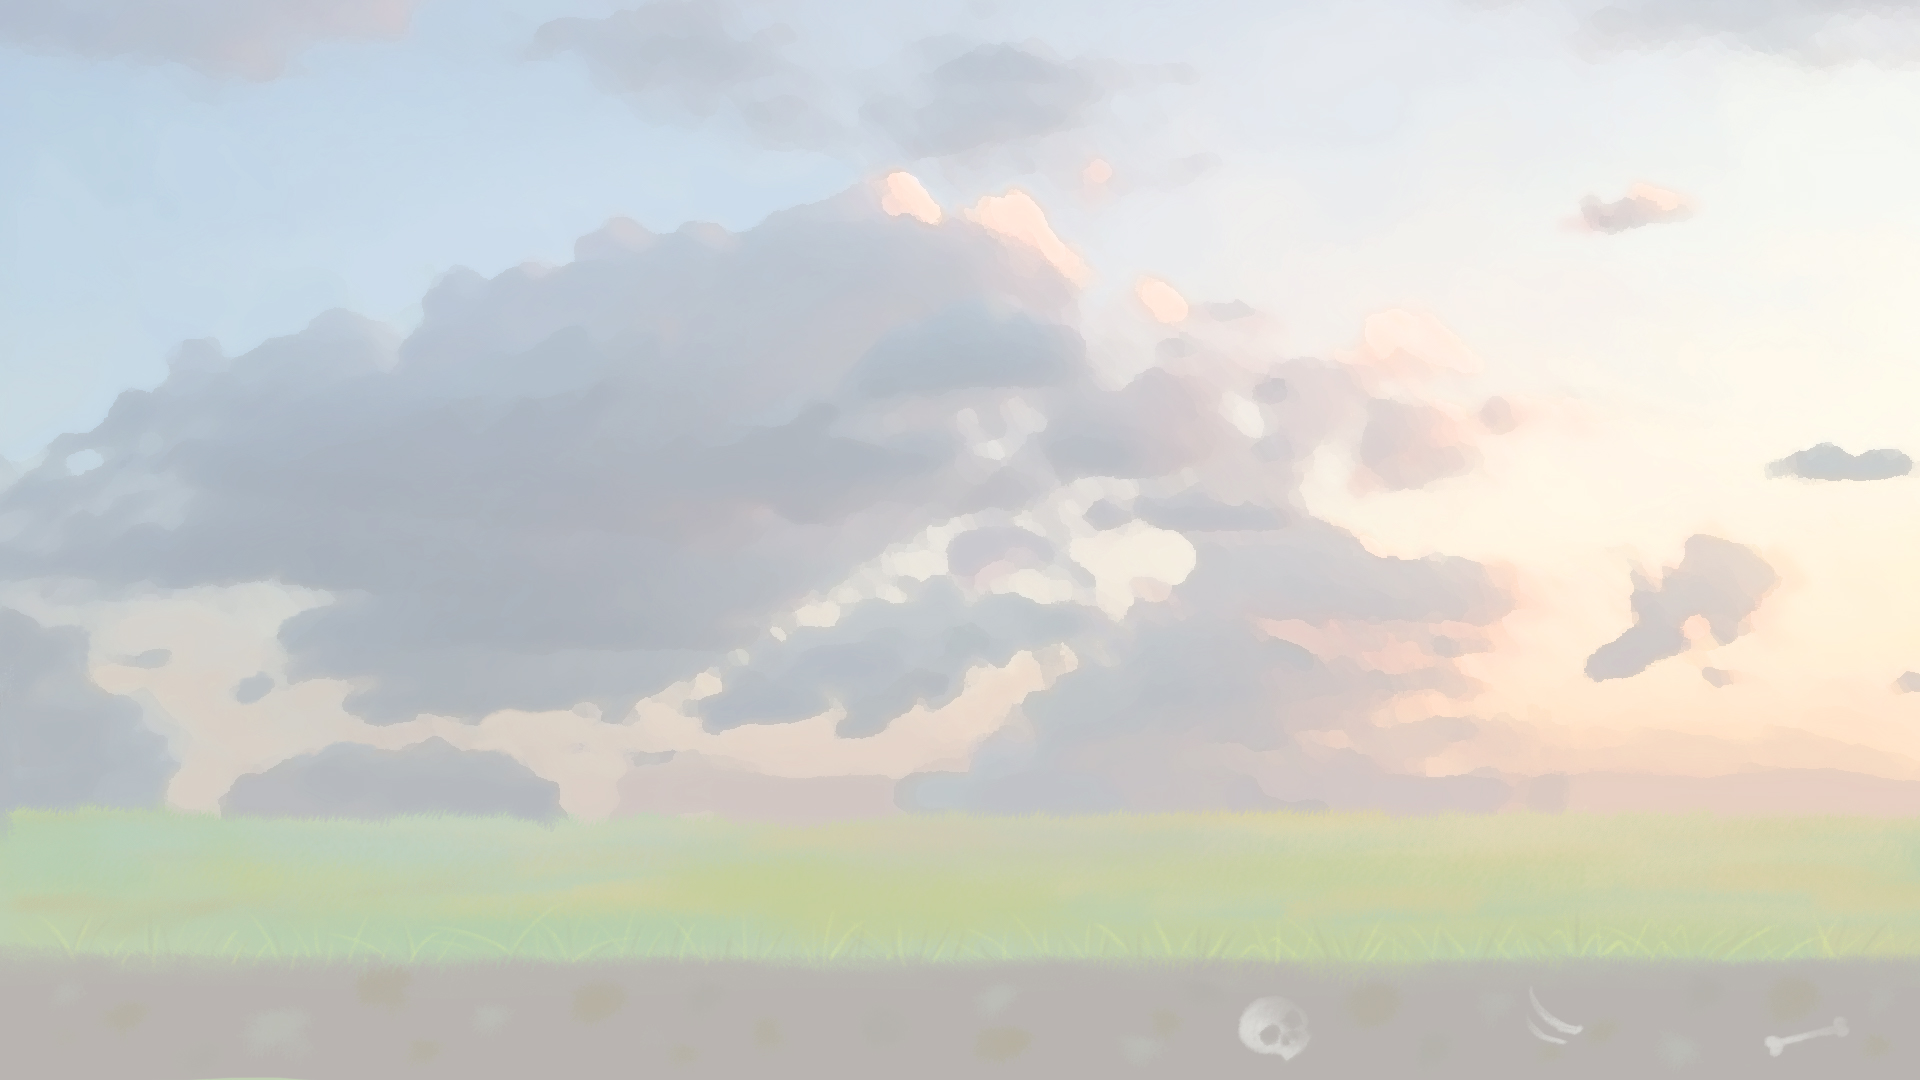
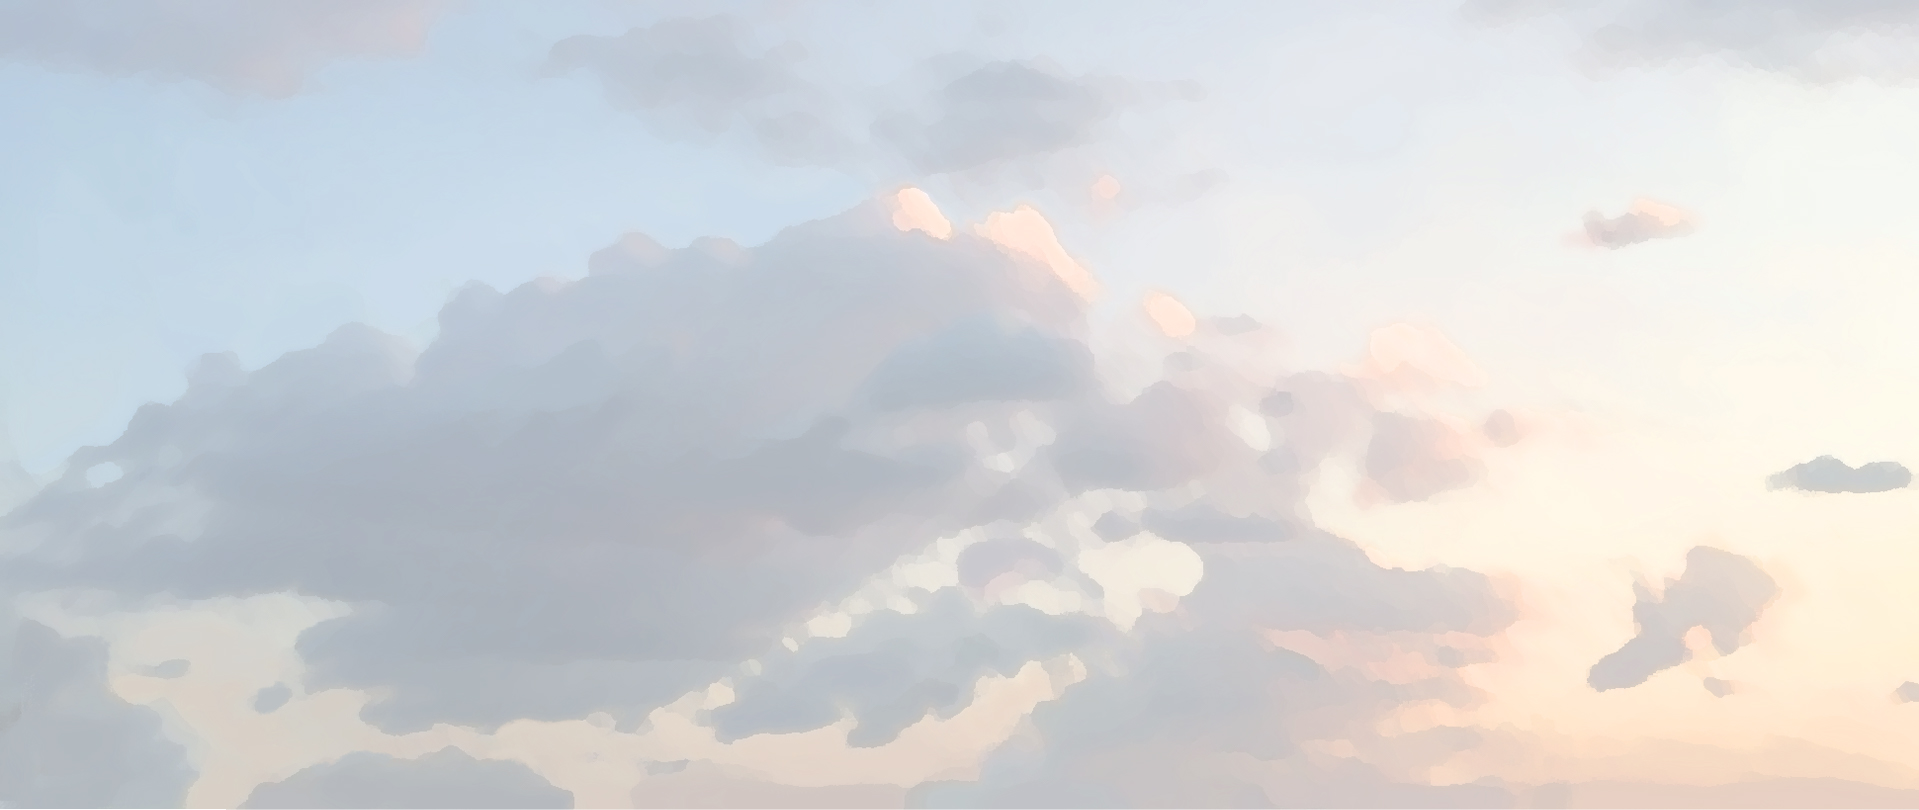
wip: mvp (add zoom restrictions, add sky, camera bounds, replace smoke texture)

diff --git a/src/lib/phaser.ts b/src/lib/phaser.ts
@@ -2,22 +2,127 @@
 // тут я модифицирую некоторые методы фазера (стараясь попутно всё не сломать),
 // иначе пиздец как больно делать элементарные вещи 
 
+import CONFIG from '../config';
 var Phaser = window['Phaser'];
 var Constraint = Phaser.Physics.Matter.Matter.Constraint;
 
 Phaser.Physics.Matter.Factory.prototype.constraint = function(bodyA, bodyB, length, stiffness, options) {
-    if (stiffness === undefined) { stiffness = 1; }
-    if (options === undefined) { options = {}; }
-    if (bodyA) { options.bodyA = (bodyA.type === 'body') ? bodyA : bodyA.body; }
-    if (bodyB) { options.bodyB = (bodyB.type === 'body') ? bodyB : bodyB.body; }
-    if (length) { options.length = length; }
-    if (stiffness) { options.stiffness = stiffness; }
+  if (stiffness === undefined) { stiffness = 1; }
+  if (options === undefined) { options = {}; }
+  if (bodyA) { options.bodyA = (bodyA.type === 'body') ? bodyA : bodyA.body; }
+  if (bodyB) { options.bodyB = (bodyB.type === 'body') ? bodyB : bodyB.body; }
+  if (length) { options.length = length; }
+  if (stiffness) { options.stiffness = stiffness; }
 
-    var constraint = Constraint.create(options);
+  var constraint = Constraint.create(options);
 
-    this.world.add(constraint);
+  this.world.add(constraint);
 
-    return constraint;
+  return constraint;
+};
+
+Phaser.Cameras.Controls.SmoothedKeyControl.prototype.update = function(delta) {
+  if (!this.active) {
+    return;
+  }
+
+  if (delta === undefined) { delta = 1; }
+
+  var cam = this.camera;
+
+  //  Apply Deceleration
+  if (this._speedX > 0) {
+    this._speedX -= this.dragX * delta;
+
+    if (this._speedX < 0) {
+      this._speedX = 0;
+    }
+  }
+  else if (this._speedX < 0) {
+    this._speedX += this.dragX * delta;
+
+    if (this._speedX > 0) {
+      this._speedX = 0;
+    }
+  }
+
+  if (this._speedY > 0) {
+    this._speedY -= this.dragY * delta;
+
+    if (this._speedY < 0) {
+      this._speedY = 0;
+    }
+  }
+  else if (this._speedY < 0) {
+    this._speedY += this.dragY * delta;
+
+    if (this._speedY > 0) {
+      this._speedY = 0;
+    }
+  }
+
+  //  Check for keys
+  if (this.up && this.up.isDown) {
+    this._speedY += this.accelY;
+
+    if (this._speedY > this.maxSpeedY) {
+      this._speedY = this.maxSpeedY;
+    }
+  }
+  else if (this.down && this.down.isDown) {
+    this._speedY -= this.accelY;
+
+    if (this._speedY < -this.maxSpeedY) {
+      this._speedY = -this.maxSpeedY;
+    }
+  }
+
+  if (this.left && this.left.isDown) {
+    this._speedX += this.accelX;
+
+    if (this._speedX > this.maxSpeedX) {
+      this._speedX = this.maxSpeedX;
+    }
+  }
+  else if (this.right && this.right.isDown) {
+    this._speedX -= this.accelX;
+
+    if (this._speedX < -this.maxSpeedX) {
+      this._speedX = -this.maxSpeedX;
+    }
+  }
+
+  //  Camera zoom
+  if (this.zoomIn && this.zoomIn.isDown) {
+    this._zoom = -this.zoomSpeed;
+  }
+  else if (this.zoomOut && this.zoomOut.isDown) {
+    this._zoom = this.zoomSpeed;
+  }
+  else {
+    this._zoom = 0;
+  }
+
+  //  Apply to Camera
+  if (this._speedX !== 0) {
+    cam.scrollX -= ((this._speedX * delta) | 0);
+  }
+
+  if (this._speedY !== 0) {
+    cam.scrollY -= ((this._speedY * delta) | 0);
+  }
+
+  if (this._zoom !== 0) {
+    cam.zoom += this._zoom;
+
+    if (cam.zoom < CONFIG.MIN_ZOOM) {
+      cam.zoom = CONFIG.MIN_ZOOM;
+    }
+
+    if (cam.zoom > CONFIG.MAX_ZOOM) {
+      cam.zoom = CONFIG.MAX_ZOOM;
+    }
+  }
 };
 
 export default Phaser;

diff --git a/src/level/level-1.ts b/src/level/level-1.ts
@@ -43,7 +43,7 @@ export default class Level1 extends (<any>Phaser.Scene) {
 
     this.addEnvironment();
 
-    this.slingshot = new Slingshot(this, 200, 400);
+    this.slingshot = new Slingshot(this, 900, 200);
 
     generateEntities(Level1Data, this);
 
@@ -51,15 +51,24 @@ export default class Level1 extends (<any>Phaser.Scene) {
   }
 
   addEnvironment() {
+    let w = this.game.config.width;
+    let h = this.game.config.height;
+
     // let tileSprite = this.add.tileSprite(this.game.config.width / 2, 1920, 20000, 290, 'grass');
     // console.log(tileSprite);
     // this.matter.add.tileBody(tileSprite, {});
     // let grass = this.matter.add.image(this.game.config.width / 2, this.game.config.height, 'grass', null, { isStatic: true });
-    let grassTile = this.add.tileSprite(this.game.config.width / 2, this.game.config.height - 100, 1920 * 10, 280, 'grass');
+
+    let skyTile = this.add.sprite(0, 0, 'sky')
+      .setDisplaySize(w * 4, h * 4)
+      .setPosition(w * 4, h)
+      .setOrigin(1);
+      // .setScrollFactor(0.5);
+
+    let grassTile = this.add.tileSprite(w / 2, h - 100, w * 10, 280, 'grass');
     let grassSprite = this.matter.add.gameObject(grassTile).setStatic(true);
 
-    let skyTile = this.add.tileSprite(this.game.config.width / 2, this.game.config.height / 2, 1920, 1080, 'sky');
-
+    this.cameras.main.setBounds(0, -h * 3, w * 4, h * 4);
 
     // this.matter.add.image(this.game.config.width / 2, this.game.config.height, 'grass', null, { isStatic: true });
   }

diff --git a/src/level/data/level-1.data.ts b/src/level/data/level-1.data.ts
@@ -1,2 +1,2 @@
-// Generated at Tue, 05 Mar 2019 02:57:23 GMT
-export default [{"type":"CommissarEnemy","x":1282.7915877908372,"y":930.6225955053943,"rotation":0,"scaleX":1.2711028037383183,"scaleY":1.234728033472804},{"type":"WoodenWall","x":1529.5229704972528,"y":860.3499999999999,"rotation":0,"scaleX":2.6999999999999975,"scaleY":1.7436507936507943},{"type":"WoodenWall","x":1057.9689110843049,"y":860.3499999999999,"rotation":0,"scaleX":2.6999999999999975,"scaleY":1.7436507936507943},{"type":"WoodenWall","x":1327.3519092731462,"y":591.8425469271685,"rotation":-1.5707963267948974,"scaleX":4.699999999999991,"scaleY":4.699999999999991}];
+// Generated at Wed, 06 Mar 2019 01:09:21 GMT
+export default [{"type":"WoodenWall","x":5409.662829737929,"y":476.0584589002742,"rotation":0,"scaleX":3.949999999999993,"scaleY":2.993650793650791},{"type":"WoodenWall","x":4859.113994037706,"y":477.7288548295389,"rotation":0,"scaleX":2.9499999999999975,"scaleY":2.9499999999999975},{"type":"CommissarEnemy","x":4452.547462528757,"y":632.5392296501333,"rotation":0,"scaleX":1.6500000000000006,"scaleY":1.6500000000000006},{"type":"WoodenWall","x":5120.847831390641,"y":78.10243237943575,"rotation":1.5707963267948966,"scaleX":2.6999999999999984,"scaleY":2.6999999999999984},{"type":"WoodenWall","x":1598.8392947254895,"y":470.125054354286,"rotation":1.5707963267948966,"scaleX":5.14999999999999,"scaleY":5.14999999999999}];

diff --git a/src/entity/entity.ts b/src/entity/entity.ts
@@ -90,15 +90,16 @@ export default class Entity {
       // если да, то менять только при изменении порога.
       this.sprite.setTexture(`${ this.textureKey }-${ destructionStep }`);
     } else if (this.currentMomentum <= 0) {
-      let particles;
 
       if (this.destructionParticlesConfig) {
-        particles = this.scene.add.particles(`${ this.textureKey }-destruction-particle`);
+        let particles = this.scene.add.particles(this.destructionParticlesConfig.name);
 
         this.destructionParticlesConfig.x = this.sprite.x;
         this.destructionParticlesConfig.y = this.sprite.y;
 
-        particles.createEmitter(this.destructionParticlesConfig);        
+        particles
+          .createEmitter(this.destructionParticlesConfig)
+          .explode(1, this.sprite.x, this.sprite.y);
       }
 
       this.sprite.destroy(); // это удаляет и физическое тело

diff --git a/src/entity/wall/wooden-wall.ts b/src/entity/wall/wooden-wall.ts
@@ -1,6 +1,7 @@
 import Phaser from '../../lib/phaser';
 import Entity from '../entity';
 const { Bodies } = Phaser.Physics.Matter.Matter;
+import SmokeParticles from '../../particle/smoke';
 
 export default class WoodenWall extends Entity {
   constructor(scene, x, y, w = 15, h = 250) {
@@ -19,18 +20,7 @@ export default class WoodenWall extends Entity {
       {
         steps: 2,
         momentum: 40000,
-        particles: {
-          // alpha: { start: 1, end: 0 },
-          // scale: { start: 1, end: 10 },
-          // speed: 30,
-          accelerationX: { min: -250, max: 250 },
-          // accelerationY: -400,
-          gravityY: 350,
-          // lifespan: { min: 100, max: 250 },
-          // blendMode: 'NORMAL',
-          // frequency: 250,
-          // maxParticles: 64
-        }
+        particles: SmokeParticles
       }
     );
   }

diff --git a/src/particle/smoke.ts b/src/particle/smoke.ts
@@ -1,0 +1,36 @@
+export default {
+  'blendMode':3,
+  'frequency':150,
+  'gravityX':0,
+  'gravityY':-300,
+  'maxParticles':0,
+  'name':'smoke',
+  'on':true,
+  'particleBringToTop':true,
+  'radial':true,
+  'timeScale':1,
+  'trackVisible':false,
+  'visible':true,
+  'accelerationX':0,
+  'accelerationY':0,
+  'angle':{'min':0,
+  'max':360},
+  'alpha':{'start':1,
+  'end':0,
+  'ease':'Linear'},
+  'bounce':0,
+  'delay':0,
+  'lifespan':1000,
+  'maxVelocityX':10000,
+  'maxVelocityY':10000,
+  'moveToX':0,
+  'moveToY':0,
+  'quantity':1,
+  'rotate':0,
+  'tint':4294967295,
+  'speed':{'min':0,
+  'max':70},
+  'scale':{'start':0,
+  'end':0.7,
+  'ease':'Linear'}
+};

diff --git a/src/editor/level.ts b/src/editor/level.ts
@@ -45,10 +45,12 @@ export default class LevelEditor extends (<any>Phaser.Scene) {
     this.add.tileSprite(
       this.game.config.width / 2,
       this.game.config.height / 2,
-      this.game.config.width * 4,
-      this.game.config.height * 4,
+      this.game.config.width * 6,
+      this.game.config.height * 6,
       'transparency'
     );
+
+    let grassTile = this.add.tileSprite(this.game.config.width / 2, this.game.config.height - 100, this.game.config.width * 10, 280, 'grass');
 
     this.cameras.main.setBackgroundColor('#f0f0f0')
 

diff --git a/src/level/shared/init-debug-camera.ts b/src/level/shared/init-debug-camera.ts
@@ -11,9 +11,9 @@ export default function() {
     down: cursors.down,
     zoomIn: this.input.keyboard.addKey(Phaser.Input.Keyboard.KeyCodes.Q),
     zoomOut: this.input.keyboard.addKey(Phaser.Input.Keyboard.KeyCodes.E),
-    acceleration: 0.06,
+    acceleration: 0.1,
     drag: 0.0005,
-    maxSpeed: 1.0
+    maxSpeed: 2.0
   };
 
   this.cameraControls = new Phaser.Cameras.Controls.SmoothedKeyControl(controlConfig);

diff --git a/src/assets.ts b/src/assets.ts
@@ -10,6 +10,15 @@ const ASSETS = {
     'commissar-1': 'assets/enemy/commissar-1.png',
     'commissar-2': 'assets/enemy/commissar-2.png',
   },
+  SPRITESHEETS: {
+    'smoke': {
+      url: 'assets/particle/smoke.png',
+      options: {
+        frameWidth: 204,
+        frameHeight: 204
+      }
+    }
+  },
   SOUNDS: []
 }
 

diff --git a/src/entity/slingshot.ts b/src/entity/slingshot.ts
@@ -36,7 +36,7 @@ export default class Slingshot {
     this.constraint = this.scene.matter.add.constraint(null, null, null, null, {
       pointA: { x: this.x, y: this.y },
       bodyB: this.getNewShell().body, 
-      stiffness: 0.05
+      stiffness: 0.025
     });
   }
 

diff --git a/src/entity/enemy/commissar-enemy.ts b/src/entity/enemy/commissar-enemy.ts
@@ -15,7 +15,7 @@ export default class CommissarEnemy extends Enemy {
       }),
       {
         steps: 2,
-        momentum: 4000,
+        momentum: 20000,
         // particles: {
         //   alpha: { start: 1, end: 0 },
         //   scale: { start: 0.5, end: 1 },

diff --git a/src/level/shared/preload.ts b/src/level/shared/preload.ts
@@ -4,4 +4,8 @@ export default function() {
   for (let k in ASSETS.IMAGES) {
     this.load.image(k, ASSETS.IMAGES[k]);
   }
+
+  for (let k in ASSETS.SPRITESHEETS) {
+    this.load.image(k, ASSETS.SPRITESHEETS[k].url, ASSETS.SPRITESHEETS[k].options);
+  }
 }
